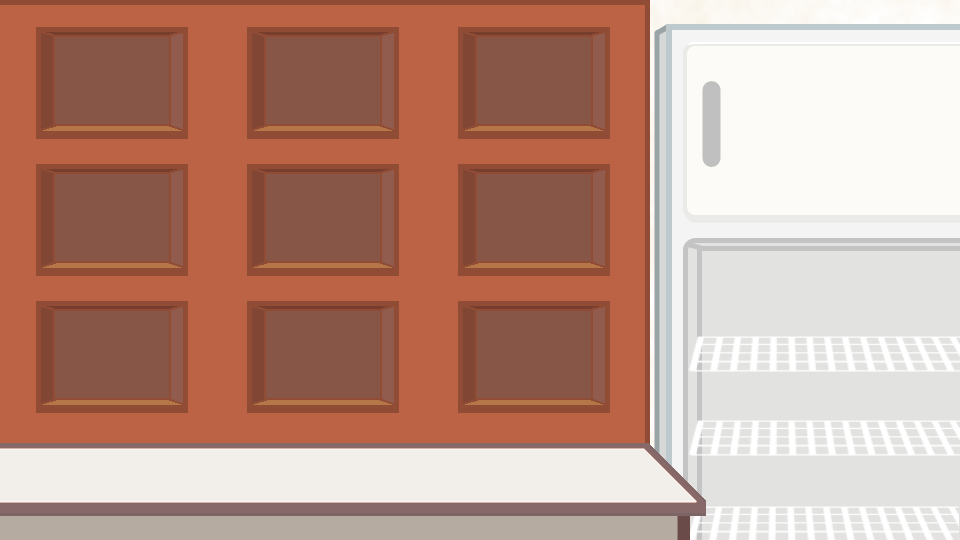
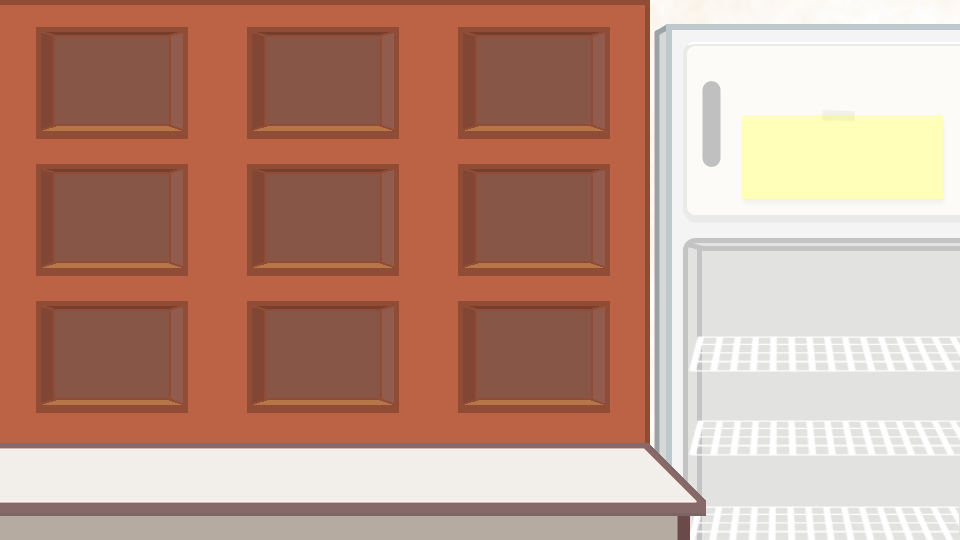
Ajout des instructions+ équilibrage shaker

Changed region(s): [[0.75, 0.2074, 1.0, 0.3852]]

diff --git a/Logiciel/header/miniJeu/Bronx/Shaker.h b/Logiciel/header/miniJeu/Bronx/Shaker.h
@@ -1,11 +1,11 @@
 #ifndef __SHAKER_H_
 #define __SHAKER_H_
 
-#include "../../Grabber.hpp"
+#include "../../GravityAffected.h"
 #include "../../AssetManager.h"
 #include <math.h>
 
-class Shaker: public Grabber::Grabbable
+class Shaker: public GravityAffected
 {
 public:
 	Shaker(sf::RenderWindow* w);
@@ -17,6 +17,7 @@ public:
 
 	virtual void onGrab();
 	virtual void updateOnGrab();
+
 
 private:
 

diff --git a/Logiciel/source/miniJeu/Bronx/Shaker.cpp b/Logiciel/source/miniJeu/Bronx/Shaker.cpp
@@ -24,7 +24,7 @@ void Shaker::updateOnGrab()
 
 	int dist = sqrt(pow(getPosition().x - lastpos.x, 2) + pow(getPosition().y - lastpos.y, 2));
 
-	if (dist > 20)
+	if (dist > 30)
 	{
 		shakeAmount += dist;
 	}

diff --git a/Logiciel/header/miniJeu/Bronx/Bronx.h b/Logiciel/header/miniJeu/Bronx/Bronx.h
@@ -25,6 +25,8 @@ public:
 
 private:
 
+    sf::Text hint;
+
     void placeObjects();
     static float getGroundLevel(sf::Vector2f pos);
 
